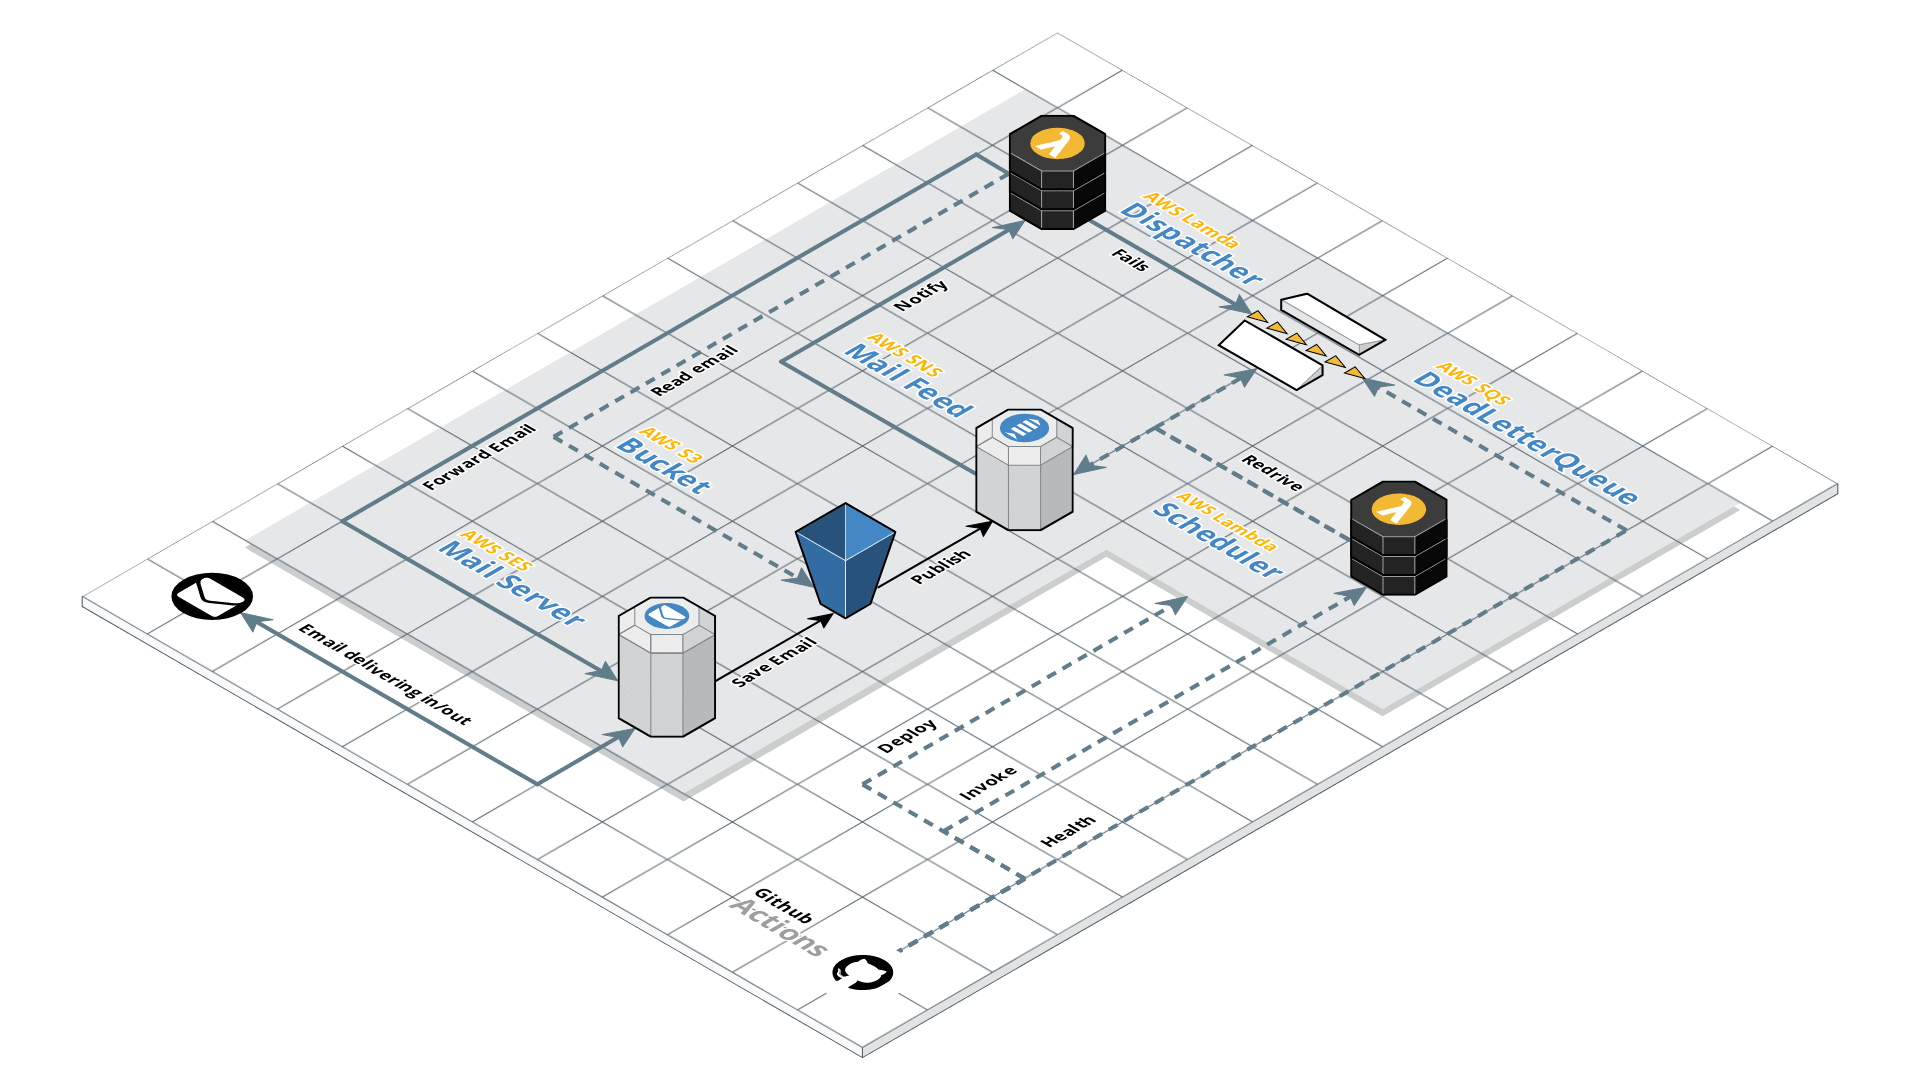
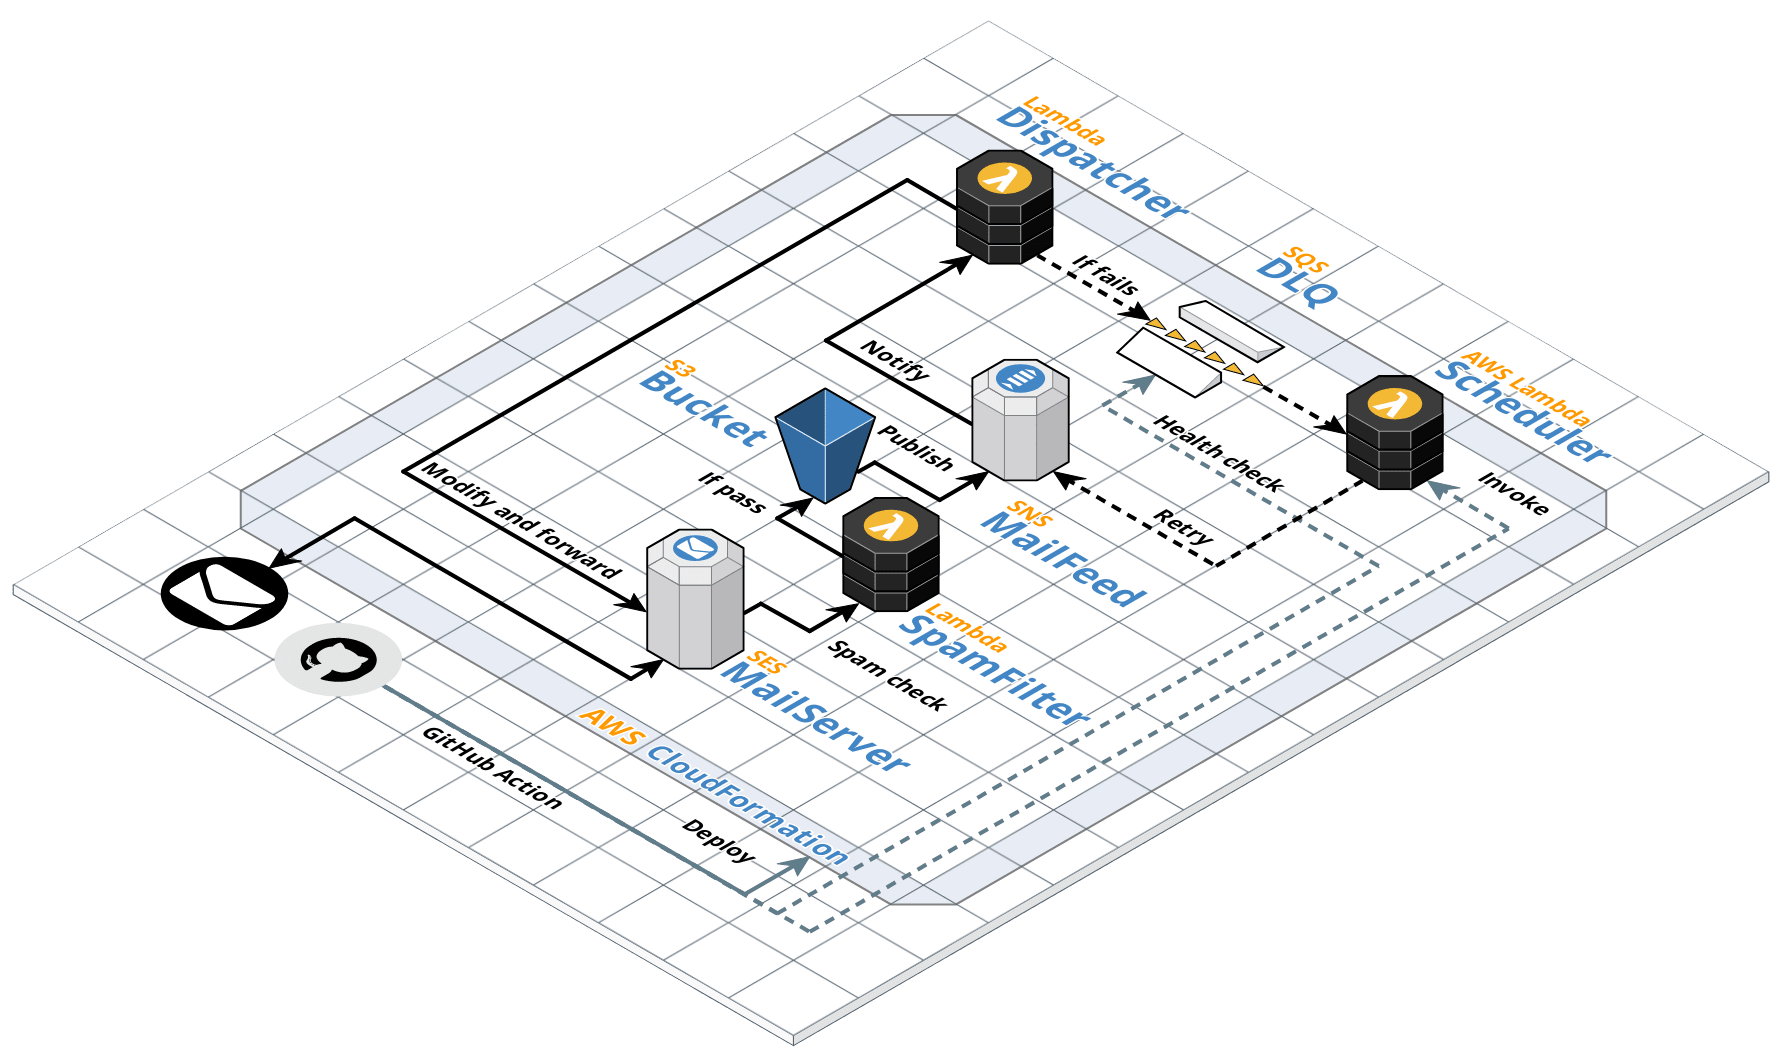
docs: redraw architecture diagram for better clarity with hint for link
As per feedbacks from hackernews. Thank you!

fix #4

diff --git a/README.md b/README.md
@@ -19,7 +19,9 @@ The project aims to offer an extensible email forwarding solution with minimal m
 
 ## ☁ How it works?
 
-![MailDog Architecture](docs/architecture.png)
+[![MailDog Architecture](docs/architecture.png)](https://app.cloudcraft.co/view/d3b3c7fb-3e31-445c-ae5a-3fd3cf5080d6?key=VbwNoP3q1N5efAlrXGHK2Q&interactive=true&embed=true)
+
+> Hint: you can click on the diagram for higher resolution
 
 ## 💸 Pricing
 
